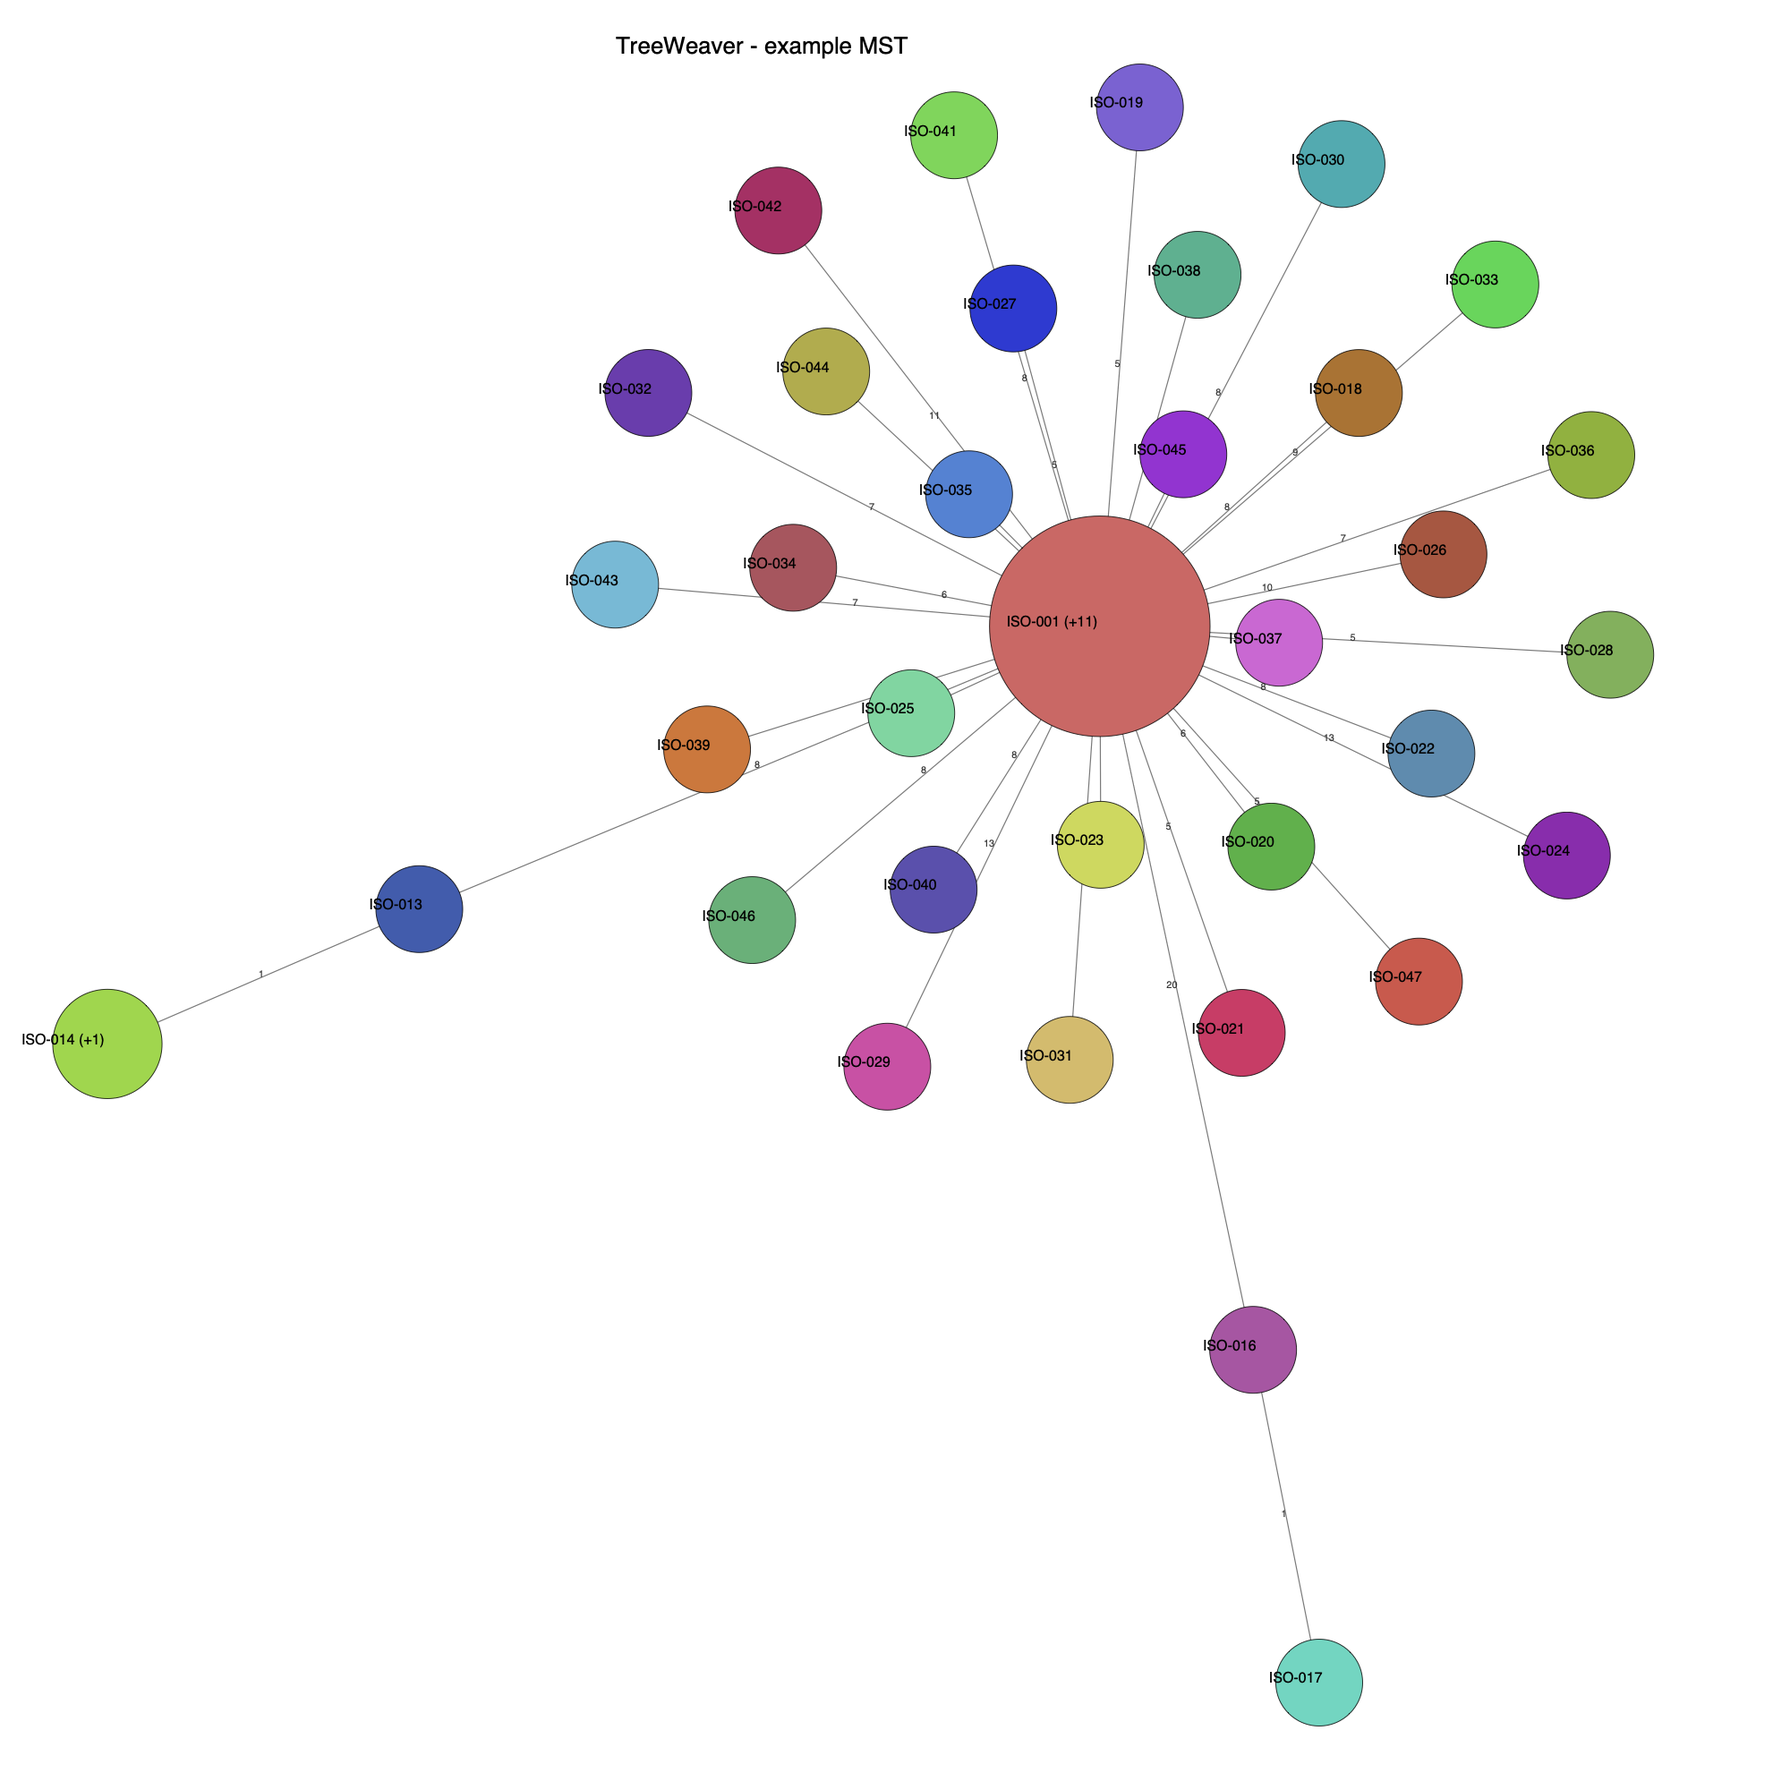
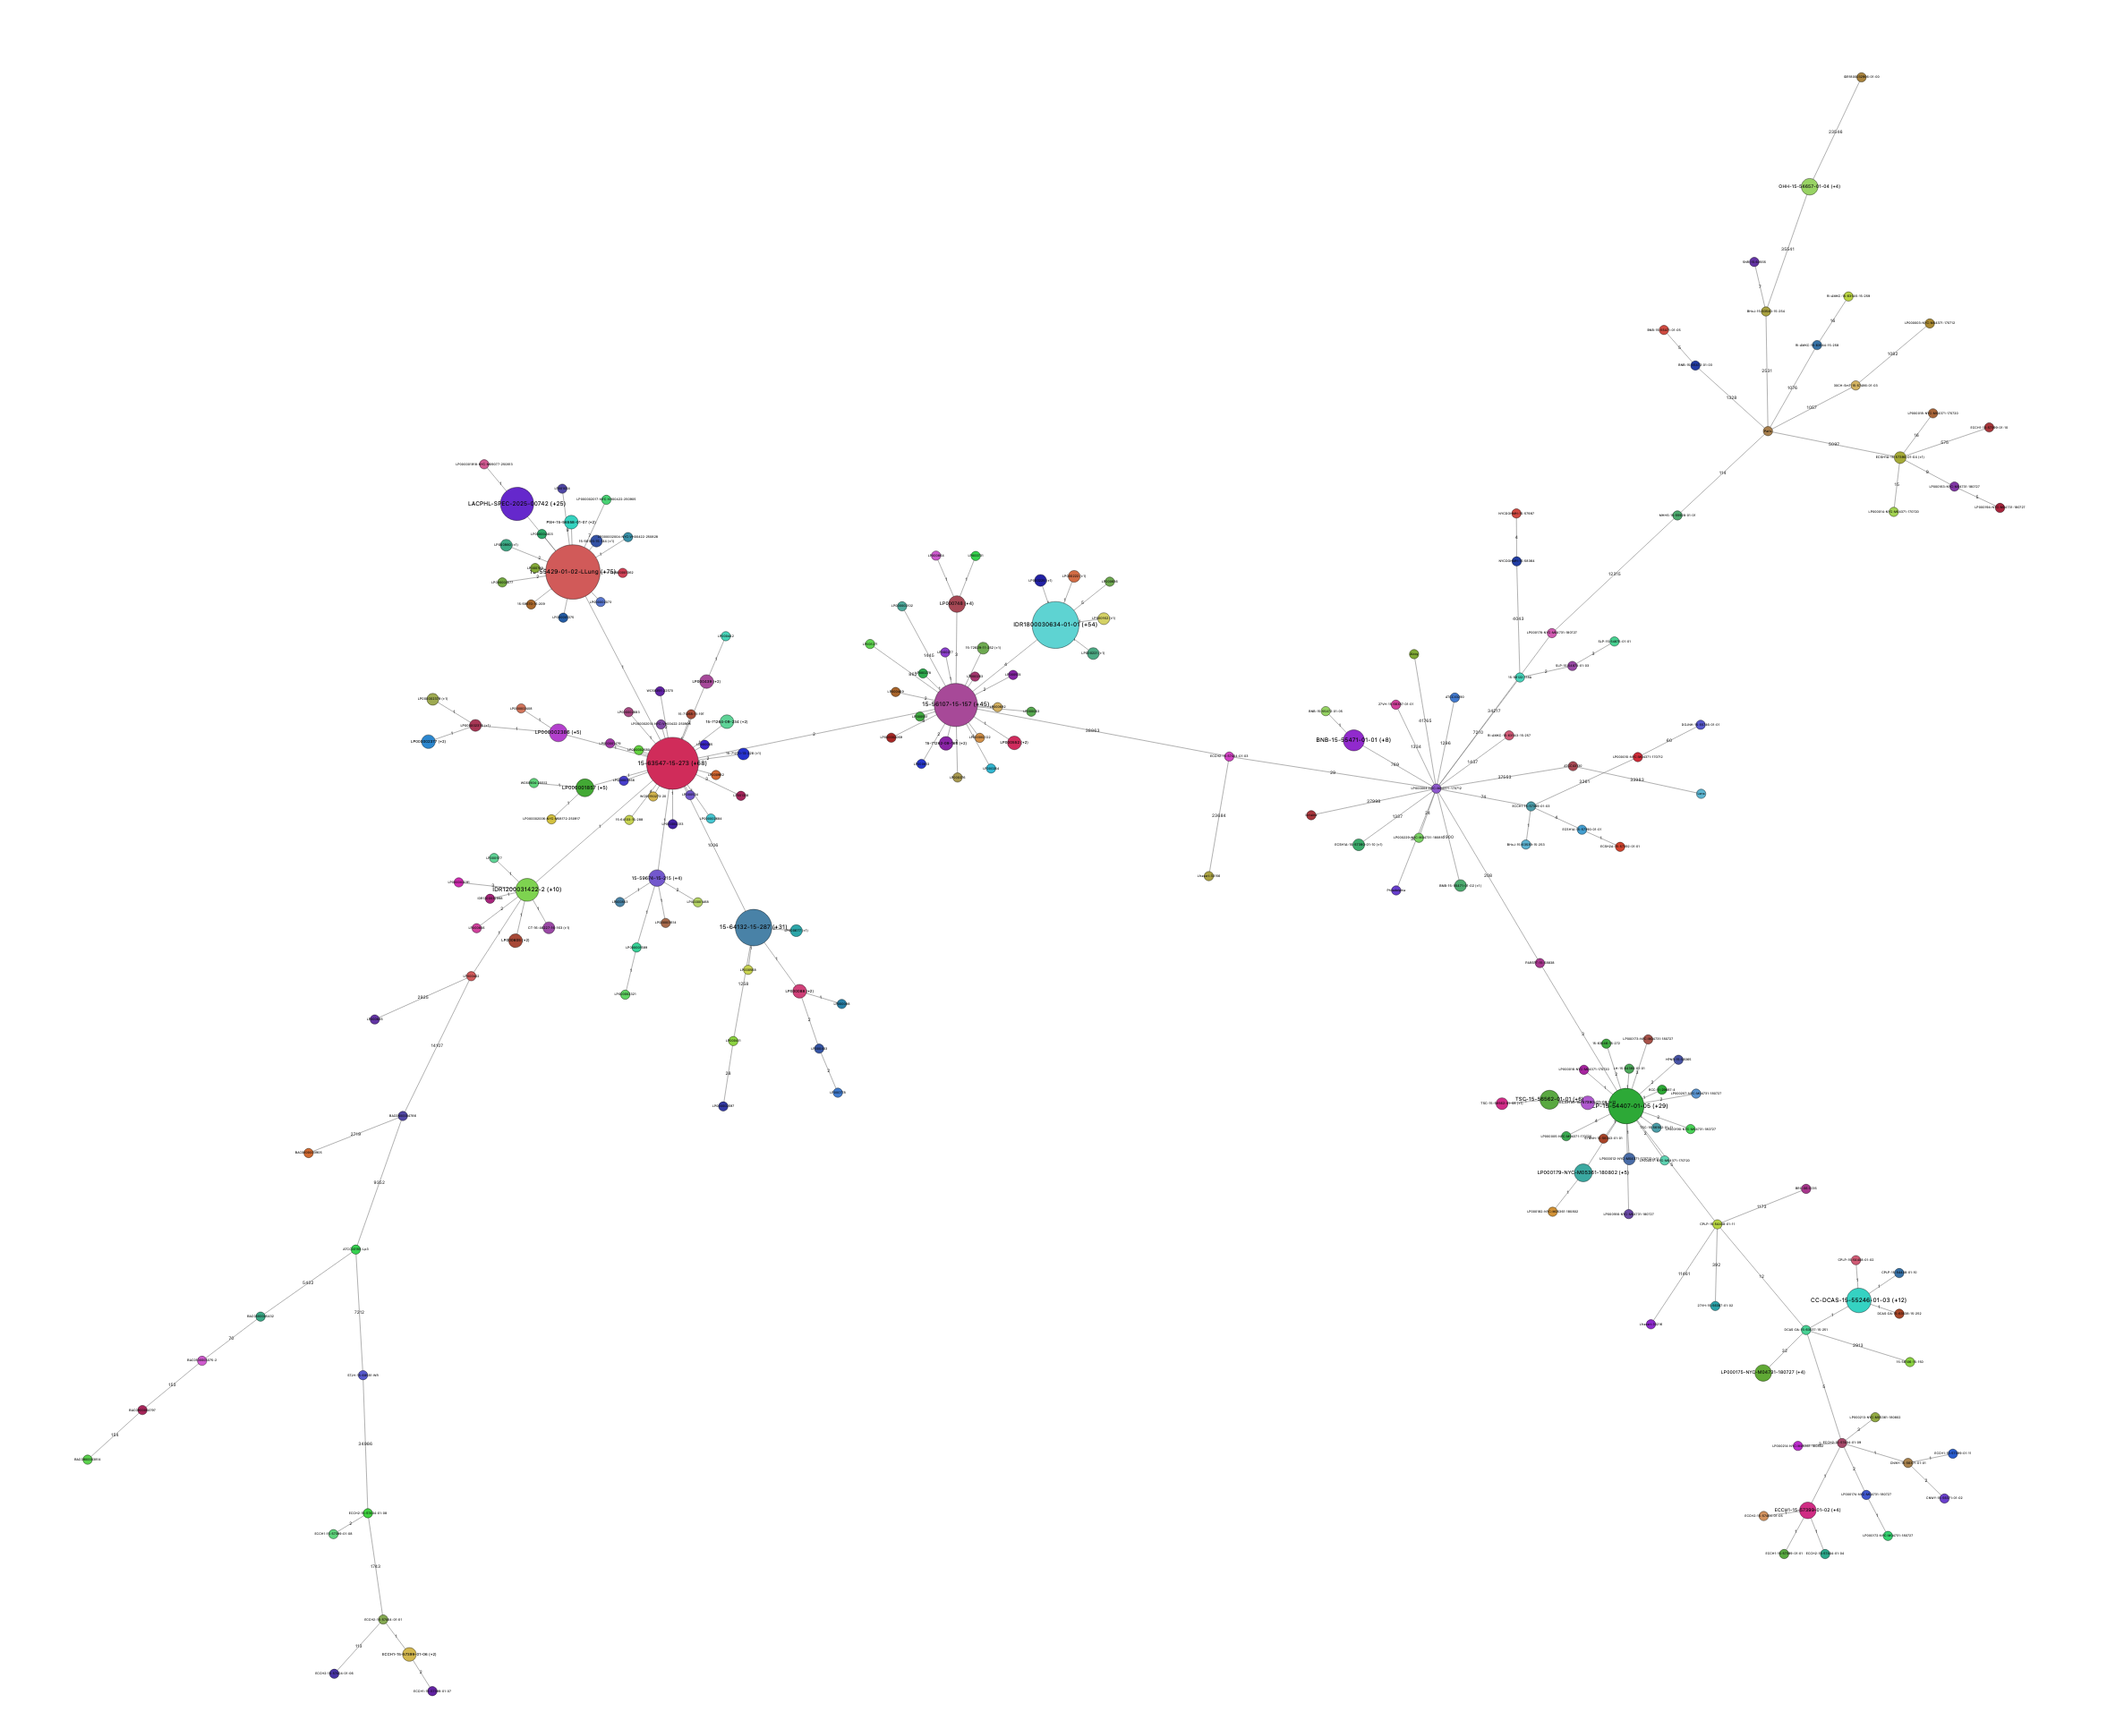
Use real-dataset MST_example.png; document tie-breaking and collapse transitivity

diff --git a/README.md b/README.md
@@ -9,8 +9,7 @@ publication-ready figure — all locally, with no server and no data leaving you
 
 ![TreeWeaver example MST](docs/MST_example.png)
 
-*Example: 47 isolates — a 12-sample outbreak core with many offshoots
-(see [`examples/example_matrix.tsv`](examples/example_matrix.tsv)).*
+*Example: a real Legionella outbreak dataset (412 genomes) rendered with TreeWeaver.*
 
 ---
 
@@ -209,6 +208,35 @@ Merges components by repeatedly taking each component's cheapest outgoing edge.
   `O(log n)` because each round at least halves the number of components.
 - **When it shines:** it is naturally parallel/distributed (each component can search
   independently), and it is the basis of several fast parallel MST algorithms.
+
+### Tie-breaking
+
+When several edges share the same weight, the three algorithms may pick different ones,
+so the **tree shape can differ even though the total weight is identical**. This is very
+common with SNP data, where many distances are 0 or 1.
+
+- **Prim** — scans nodes in index order and keeps the first minimum found, so ties are
+  resolved by the **lowest node index**.
+- **Kruskal** — sorts edges by weight with a **stable** sort, so among equal-weight edges
+  the one appearing first in the edge list (row-major order of the matrix) is considered
+  first; the first one that joins two different components is kept.
+- **Boruvka** — for each component, scans candidate edges in index order and keeps the
+  first strictly-cheaper edge, so ties go to the **lowest-index neighbour**.
+
+### Collapsing and transitivity
+
+The **Collapse** control merges samples whose distance is **≤ the threshold**, but it does
+so on the **connected components** of that relation — it does **not** require every pair in
+a group to be within the threshold. Merging is therefore **transitive**:
+
+> If `a–b = 0`, `b–c = 0`, and `c–a = 1`, then at threshold 0 the edges `a–b` and `b–c` are
+> both ≤ 0, so `a`, `b`, and `c` all end up in the **same node** — even though `c–a = 1` is
+> above the threshold.
+
+This is implemented with a union-find: every pair with distance ≤ threshold is unioned, and
+the resulting connected components become the nodes. A chain of near-identical samples
+therefore collapses into a single node whose size is the number of samples in that component;
+the `c–a = 1` edge is simply ignored because `a` and `c` are already connected through `b`.
 
 ### Which should I use?
 
